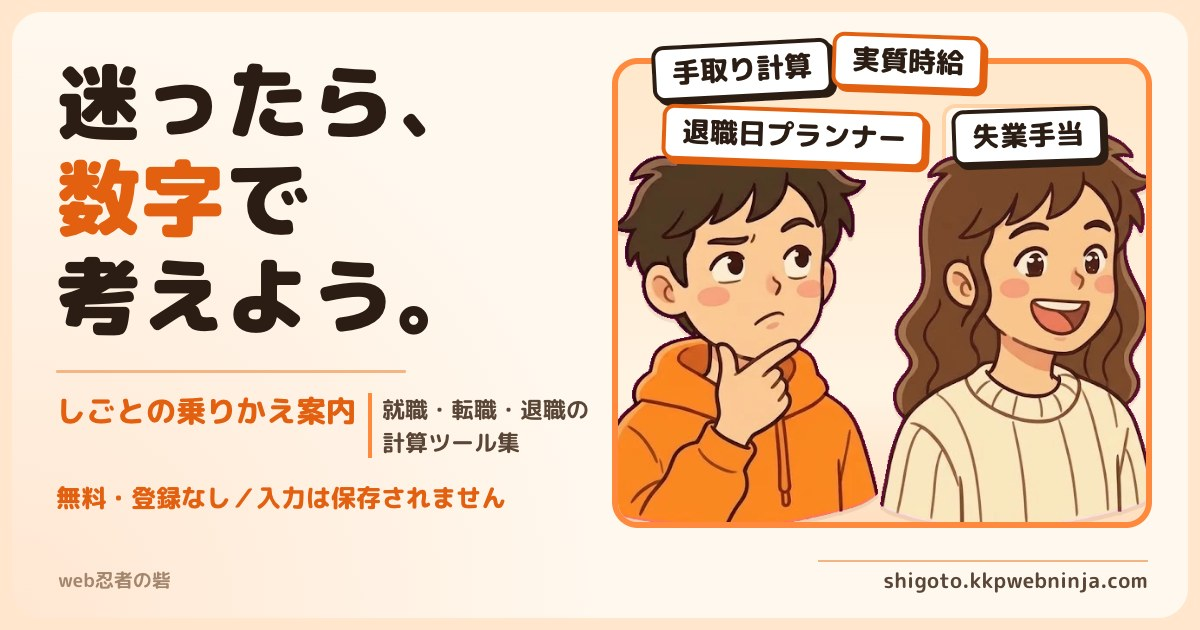
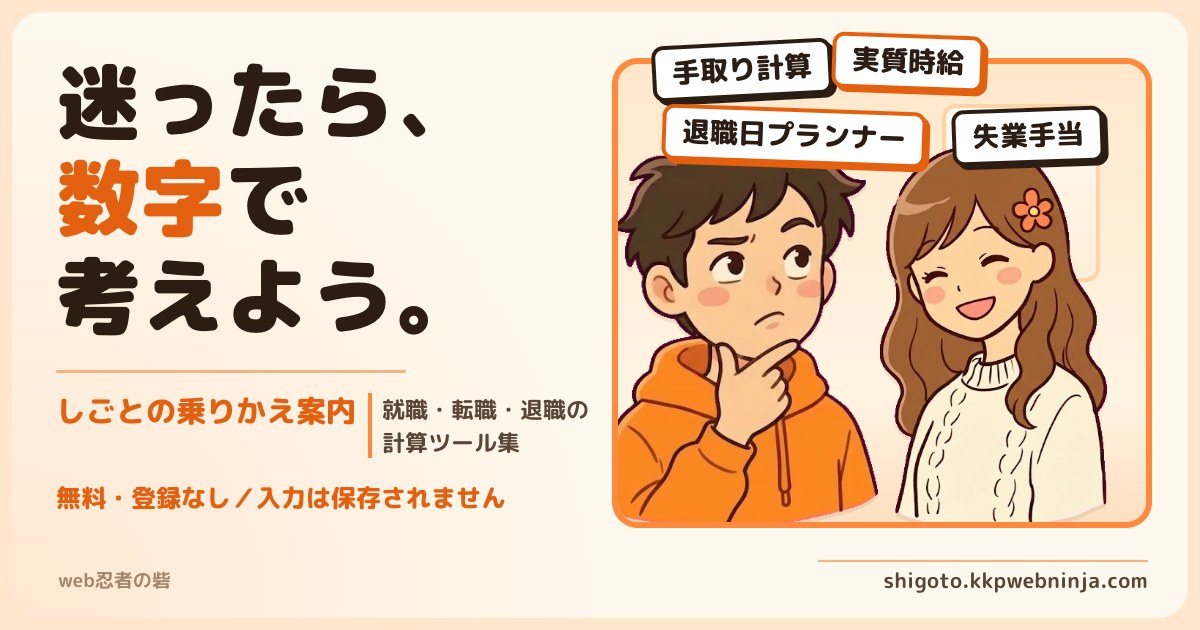
カード画像（OGP）の女の子を、ひと目で女の子と分かる絵に差し替える
男の子と同じ顔に見えていたため、kkp-kit の女の子の素材を作り直して書き出し直した（kkp-kit 978018e）。
og:image・twitter:image の ?d= を 20261023 にして、SNS に新しい画像を読み直させる。

Changed region(s): [[0.7092, 0.2111, 0.9558, 0.8444]]

diff --git a/articles/shitsugyo-hoken-itsukara.html b/articles/shitsugyo-hoken-itsukara.html
@@ -12,9 +12,9 @@
 <meta property="og:site_name" content="web忍者の砦">
 <meta property="og:locale" content="ja_JP">
 <meta property="og:url" content="https://shigoto.kkpwebninja.com/articles/shitsugyo-hoken-itsukara">
-<meta property="og:image" content="https://shigoto.kkpwebninja.com/ogp.jpg?d=20261022">
+<meta property="og:image" content="https://shigoto.kkpwebninja.com/ogp.jpg?d=20261023">
 <meta name="twitter:card" content="summary_large_image">
-<meta name="twitter:image" content="https://shigoto.kkpwebninja.com/ogp.jpg?d=20261022">
+<meta name="twitter:image" content="https://shigoto.kkpwebninja.com/ogp.jpg?d=20261023">
 <link rel="icon" type="image/png" sizes="32x32" href="/favicon.png">
 <link rel="icon" type="image/png" sizes="192x192" href="/favicon-192.png">
 <link rel="apple-touch-icon" sizes="180x180" href="/apple-touch-icon.png">
@@ -29,7 +29,7 @@
   "datePublished": "2026-07-02",
   "dateModified": "2026-09-29",
   "mainEntityOfPage": "https://shigoto.kkpwebninja.com/articles/shitsugyo-hoken-itsukara",
-  "image": "https://shigoto.kkpwebninja.com/ogp.jpg?d=20261022"
+  "image": "https://shigoto.kkpwebninja.com/ogp.jpg?d=20261023"
 }
 </script>
 <script type="application/ld+json">

diff --git a/articles/taishoku-daiko-bengoshi.html b/articles/taishoku-daiko-bengoshi.html
@@ -12,9 +12,9 @@
 <meta property="og:site_name" content="web忍者の砦">
 <meta property="og:locale" content="ja_JP">
 <meta property="og:url" content="https://shigoto.kkpwebninja.com/articles/taishoku-daiko-bengoshi">
-<meta property="og:image" content="https://shigoto.kkpwebninja.com/ogp.jpg?d=20261022">
+<meta property="og:image" content="https://shigoto.kkpwebninja.com/ogp.jpg?d=20261023">
 <meta name="twitter:card" content="summary_large_image">
-<meta name="twitter:image" content="https://shigoto.kkpwebninja.com/ogp.jpg?d=20261022">
+<meta name="twitter:image" content="https://shigoto.kkpwebninja.com/ogp.jpg?d=20261023">
 <link rel="icon" type="image/png" sizes="32x32" href="/favicon.png">
 <link rel="icon" type="image/png" sizes="192x192" href="/favicon-192.png">
 <link rel="apple-touch-icon" sizes="180x180" href="/apple-touch-icon.png">
@@ -29,7 +29,7 @@
   "datePublished": "2026-07-02",
   "dateModified": "2026-09-19",
   "mainEntityOfPage": "https://shigoto.kkpwebninja.com/articles/taishoku-daiko-bengoshi",
-  "image": "https://shigoto.kkpwebninja.com/ogp.jpg?d=20261022"
+  "image": "https://shigoto.kkpwebninja.com/ogp.jpg?d=20261023"
 }
 </script>
 <script type="application/ld+json">

diff --git a/articles/taishoku-kiridashikata.html b/articles/taishoku-kiridashikata.html
@@ -12,9 +12,9 @@
 <meta property="og:site_name" content="web忍者の砦">
 <meta property="og:locale" content="ja_JP">
 <meta property="og:url" content="https://shigoto.kkpwebninja.com/articles/taishoku-kiridashikata">
-<meta property="og:image" content="https://shigoto.kkpwebninja.com/ogp.jpg?d=20261022">
+<meta property="og:image" content="https://shigoto.kkpwebninja.com/ogp.jpg?d=20261023">
 <meta name="twitter:card" content="summary_large_image">
-<meta name="twitter:image" content="https://shigoto.kkpwebninja.com/ogp.jpg?d=20261022">
+<meta name="twitter:image" content="https://shigoto.kkpwebninja.com/ogp.jpg?d=20261023">
 <link rel="icon" type="image/png" sizes="32x32" href="/favicon.png">
 <link rel="icon" type="image/png" sizes="192x192" href="/favicon-192.png">
 <link rel="apple-touch-icon" sizes="180x180" href="/apple-touch-icon.png">
@@ -29,7 +29,7 @@
   "datePublished": "2026-07-02",
   "dateModified": "2026-09-19",
   "mainEntityOfPage": "https://shigoto.kkpwebninja.com/articles/taishoku-kiridashikata",
-  "image": "https://shigoto.kkpwebninja.com/ogp.jpg?d=20261022"
+  "image": "https://shigoto.kkpwebninja.com/ogp.jpg?d=20261023"
 }
 </script>
 <script type="application/ld+json">

diff --git a/articles/tenshoku-agent-renraku.html b/articles/tenshoku-agent-renraku.html
@@ -12,9 +12,9 @@
 <meta property="og:site_name" content="web忍者の砦">
 <meta property="og:locale" content="ja_JP">
 <meta property="og:url" content="https://shigoto.kkpwebninja.com/articles/tenshoku-agent-renraku">
-<meta property="og:image" content="https://shigoto.kkpwebninja.com/ogp.jpg?d=20261022">
+<meta property="og:image" content="https://shigoto.kkpwebninja.com/ogp.jpg?d=20261023">
 <meta name="twitter:card" content="summary_large_image">
-<meta name="twitter:image" content="https://shigoto.kkpwebninja.com/ogp.jpg?d=20261022">
+<meta name="twitter:image" content="https://shigoto.kkpwebninja.com/ogp.jpg?d=20261023">
 <link rel="icon" type="image/png" sizes="32x32" href="/favicon.png">
 <link rel="icon" type="image/png" sizes="192x192" href="/favicon-192.png">
 <link rel="apple-touch-icon" sizes="180x180" href="/apple-touch-icon.png">
@@ -29,7 +29,7 @@
   "datePublished": "2026-09-26",
   "dateModified": "2026-09-26",
   "mainEntityOfPage": "https://shigoto.kkpwebninja.com/articles/tenshoku-agent-renraku",
-  "image": "https://shigoto.kkpwebninja.com/ogp.jpg?d=20261022"
+  "image": "https://shigoto.kkpwebninja.com/ogp.jpg?d=20261023"
 }
 </script>
 <script type="application/ld+json">

diff --git a/articles/taishoku-daiko-koukai.html b/articles/taishoku-daiko-koukai.html
@@ -12,9 +12,9 @@
 <meta property="og:site_name" content="web忍者の砦">
 <meta property="og:locale" content="ja_JP">
 <meta property="og:url" content="https://shigoto.kkpwebninja.com/articles/taishoku-daiko-koukai">
-<meta property="og:image" content="https://shigoto.kkpwebninja.com/ogp.jpg?d=20261022">
+<meta property="og:image" content="https://shigoto.kkpwebninja.com/ogp.jpg?d=20261023">
 <meta name="twitter:card" content="summary_large_image">
-<meta name="twitter:image" content="https://shigoto.kkpwebninja.com/ogp.jpg?d=20261022">
+<meta name="twitter:image" content="https://shigoto.kkpwebninja.com/ogp.jpg?d=20261023">
 <link rel="icon" type="image/png" sizes="32x32" href="/favicon.png">
 <link rel="icon" type="image/png" sizes="192x192" href="/favicon-192.png">
 <link rel="apple-touch-icon" sizes="180x180" href="/apple-touch-icon.png">
@@ -29,7 +29,7 @@
   "datePublished": "2026-09-24",
   "dateModified": "2026-09-24",
   "mainEntityOfPage": "https://shigoto.kkpwebninja.com/articles/taishoku-daiko-koukai",
-  "image": "https://shigoto.kkpwebninja.com/ogp.jpg?d=20261022"
+  "image": "https://shigoto.kkpwebninja.com/ogp.jpg?d=20261023"
 }
 </script>
 <script type="application/ld+json">

diff --git a/articles/bonus-moratte-yameru.html b/articles/bonus-moratte-yameru.html
@@ -12,9 +12,9 @@
 <meta property="og:site_name" content="web忍者の砦">
 <meta property="og:locale" content="ja_JP">
 <meta property="og:url" content="https://shigoto.kkpwebninja.com/articles/bonus-moratte-yameru">
-<meta property="og:image" content="https://shigoto.kkpwebninja.com/ogp.jpg?d=20261022">
+<meta property="og:image" content="https://shigoto.kkpwebninja.com/ogp.jpg?d=20261023">
 <meta name="twitter:card" content="summary_large_image">
-<meta name="twitter:image" content="https://shigoto.kkpwebninja.com/ogp.jpg?d=20261022">
+<meta name="twitter:image" content="https://shigoto.kkpwebninja.com/ogp.jpg?d=20261023">
 <link rel="icon" type="image/png" sizes="32x32" href="/favicon.png">
 <link rel="icon" type="image/png" sizes="192x192" href="/favicon-192.png">
 <link rel="apple-touch-icon" sizes="180x180" href="/apple-touch-icon.png">
@@ -29,7 +29,7 @@
   "datePublished": "2026-07-02",
   "dateModified": "2026-09-19",
   "mainEntityOfPage": "https://shigoto.kkpwebninja.com/articles/bonus-moratte-yameru",
-  "image": "https://shigoto.kkpwebninja.com/ogp.jpg?d=20261022"
+  "image": "https://shigoto.kkpwebninja.com/ogp.jpg?d=20261023"
 }
 </script>
 <script type="application/ld+json">

diff --git a/articles/taishokukin-tedori.html b/articles/taishokukin-tedori.html
@@ -12,9 +12,9 @@
 <meta property="og:site_name" content="web忍者の砦">
 <meta property="og:locale" content="ja_JP">
 <meta property="og:url" content="https://shigoto.kkpwebninja.com/articles/taishokukin-tedori">
-<meta property="og:image" content="https://shigoto.kkpwebninja.com/ogp.jpg?d=20261022">
+<meta property="og:image" content="https://shigoto.kkpwebninja.com/ogp.jpg?d=20261023">
 <meta name="twitter:card" content="summary_large_image">
-<meta name="twitter:image" content="https://shigoto.kkpwebninja.com/ogp.jpg?d=20261022">
+<meta name="twitter:image" content="https://shigoto.kkpwebninja.com/ogp.jpg?d=20261023">
 <link rel="icon" type="image/png" sizes="32x32" href="/favicon.png">
 <link rel="icon" type="image/png" sizes="192x192" href="/favicon-192.png">
 <link rel="apple-touch-icon" sizes="180x180" href="/apple-touch-icon.png">
@@ -29,7 +29,7 @@
   "datePublished": "2026-07-02",
   "dateModified": "2026-09-29",
   "mainEntityOfPage": "https://shigoto.kkpwebninja.com/articles/taishokukin-tedori",
-  "image": "https://shigoto.kkpwebninja.com/ogp.jpg?d=20261022"
+  "image": "https://shigoto.kkpwebninja.com/ogp.jpg?d=20261023"
 }
 </script>
 <script type="application/ld+json">

diff --git a/index.html b/index.html
@@ -36,10 +36,10 @@
 <meta property="og:site_name" content="web忍者の砦">
 <meta property="og:locale" content="ja_JP">
 <meta name="twitter:card" content="summary_large_image">
-<meta name="twitter:image" content="https://shigoto.kkpwebninja.com/ogp.jpg?d=20261022">
+<meta name="twitter:image" content="https://shigoto.kkpwebninja.com/ogp.jpg?d=20261023">
 <link rel="canonical" href="https://shigoto.kkpwebninja.com">
 <meta property="og:url" content="https://shigoto.kkpwebninja.com">
-<meta property="og:image" content="https://shigoto.kkpwebninja.com/ogp.jpg?d=20261022">
+<meta property="og:image" content="https://shigoto.kkpwebninja.com/ogp.jpg?d=20261023">
 <meta property="og:image:width" content="1200">
 <meta property="og:image:height" content="630">
 <link rel="icon" type="image/png" sizes="32x32" href="/favicon.png">
